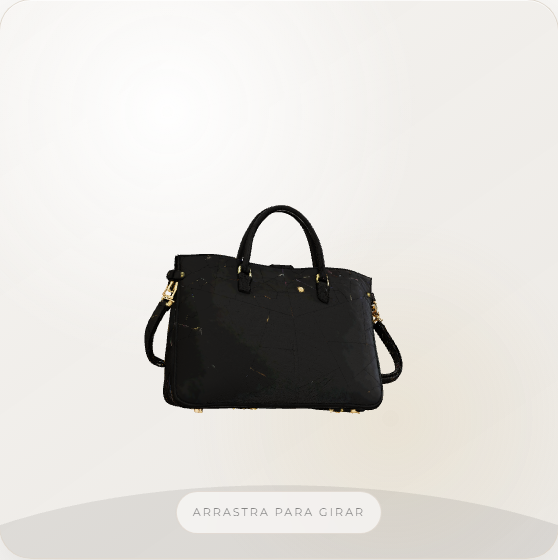
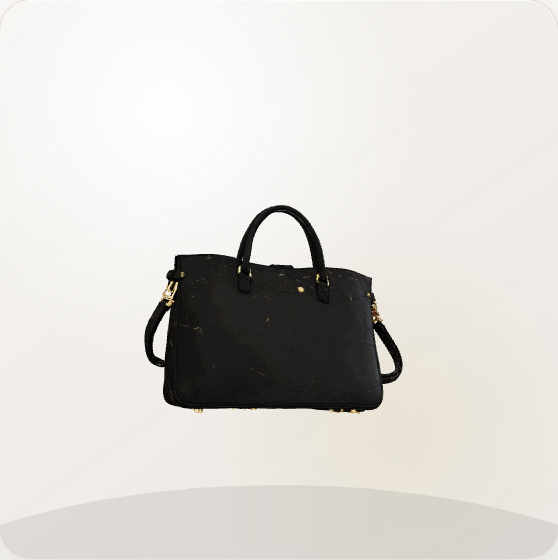
Actualiza contenido y fichas de producto

Changed region(s): [[0.3047, 0.8804, 0.7007, 0.9714]]

diff --git a/js/hero-model.js b/js/hero-model.js
@@ -1,12 +1,13 @@
 const viewer = document.getElementById('heroModelViewer');
 const stage = document.querySelector('.hero-model-stage');
 const status = document.getElementById('heroModelStatus');
-const hint = document.getElementById('heroModelHint');
 const HERO_FRAMES = Array.from(
     { length: 24 },
     (_, index) => `./images/hero-model-frames/frame-${String(index).padStart(2, '0')}.png`
 );
 const HERO_FRONT_FRAME = 12;
+const HERO_AUTO_ROTATE_SPEED = 0.65;
+const HERO_SPRITE_FRAME_DELAY_MS = 180;
 
 if (!viewer || !stage || !status) {
     throw new Error('Hero 3D viewer container not found.');
@@ -60,20 +61,13 @@ async function initHeroModel() {
 
     const controls = new OrbitControls(camera, renderer.domElement);
     controls.enableDamping = true;
+    controls.enableRotate = false;
     controls.enablePan = false;
     controls.enableZoom = false;
     controls.autoRotate = true;
-    controls.autoRotateSpeed = 1.1;
+    controls.autoRotateSpeed = HERO_AUTO_ROTATE_SPEED;
     controls.minPolarAngle = Math.PI / 2 - 0.35;
     controls.maxPolarAngle = Math.PI / 2 + 0.3;
-
-    controls.addEventListener('start', () => {
-        viewer.classList.add('is-dragging');
-    });
-
-    controls.addEventListener('end', () => {
-        viewer.classList.remove('is-dragging');
-    });
 
     const ambientLight = new THREE.HemisphereLight(0xfffbf6, 0xcbbca8, 2.6);
     scene.add(ambientLight);
@@ -115,9 +109,6 @@ async function initHeroModel() {
                 stage.classList.add('is-ready');
                 stage.classList.remove('is-error');
                 status.textContent = 'Modelo cargado';
-                if (hint) {
-                    hint.hidden = false;
-                }
                 resolve();
             },
             (event) => {
@@ -262,9 +253,6 @@ function initSpriteFallback(message = 'Visor local listo.') {
     stage.classList.add('is-sprite');
     stage.classList.remove('is-error');
     status.textContent = 'Cargando visor local...';
-    if (hint) {
-        hint.hidden = false;
-    }
 
     const sprite = document.createElement('img');
     sprite.className = 'hero-model-sprite';
@@ -273,9 +261,6 @@ function initSpriteFallback(message = 'Visor local listo.') {
     viewer.appendChild(sprite);
 
     let currentFrame = HERO_FRONT_FRAME;
-    let dragRemainder = 0;
-    let isDragging = false;
-    let lastX = 0;
     let lastAutoFrameTime = 0;
 
     const updateFrame = () => {
@@ -289,7 +274,7 @@ function initSpriteFallback(message = 'Visor local listo.') {
     };
 
     const autoRotate = (timestamp) => {
-        if (!isDragging && timestamp - lastAutoFrameTime > 110) {
+        if (timestamp - lastAutoFrameTime > HERO_SPRITE_FRAME_DELAY_MS) {
             advanceFrame(1);
             lastAutoFrameTime = timestamp;
         }
@@ -306,49 +291,7 @@ function initSpriteFallback(message = 'Visor local listo.') {
     sprite.addEventListener('error', () => {
         stage.classList.add('is-error');
         status.textContent = 'No se pudo cargar el visor local.';
-        if (hint) {
-            hint.hidden = true;
-        }
     }, { once: true });
-
-    viewer.addEventListener('pointerdown', (event) => {
-        isDragging = true;
-        lastX = event.clientX;
-        viewer.classList.add('is-dragging');
-        viewer.setPointerCapture?.(event.pointerId);
-    });
-
-    viewer.addEventListener('pointermove', (event) => {
-        if (!isDragging) {
-            return;
-        }
-
-        dragRemainder += (event.clientX - lastX) / 16;
-        lastX = event.clientX;
-
-        if (Math.abs(dragRemainder) >= 1) {
-            const step = dragRemainder > 0 ? 1 : -1;
-            dragRemainder -= step;
-            advanceFrame(step);
-        }
-    });
-
-    const stopDragging = (event) => {
-        isDragging = false;
-        dragRemainder = 0;
-        viewer.classList.remove('is-dragging');
-        if (event?.pointerId !== undefined) {
-            viewer.releasePointerCapture?.(event.pointerId);
-        }
-    };
-
-    viewer.addEventListener('pointerup', stopDragging);
-    viewer.addEventListener('pointercancel', stopDragging);
-    viewer.addEventListener('pointerleave', () => {
-        if (!isDragging) {
-            viewer.classList.remove('is-dragging');
-        }
-    });
 
     updateFrame();
 }

diff --git a/js/product.js b/js/product.js
@@ -20,7 +20,8 @@ const ProductsData = {
         ],
         dimensions: { width: '28 cm', height: '20 cm', depth: '12 cm', handle: '22 cm' },
         colors: { noir: 8500, ivory: 8500 },
-        defaultColor: 'noir'
+        defaultColor: 'noir',
+        customizable: false
     },
     'equora-petit': {
         id: 'equora-petit',
@@ -58,9 +59,9 @@ const ProductsData = {
         badge: 'Petit',
         tagline: 'Volumen redondeado en formato compacto',
         description: 'Orbea Petit trabaja una forma redondeada, sobria y funcional. Su interior comparte la misma composición visual que Orbea Grand.',
-        image: 'images/petitOrbea.png',
+        image: 'images/GrandOrbea.png',
         galleryImages: [
-            { src: 'images/petitorbeadetras.png', alt: 'Vista trasera de Orbea Petit' },
+            { src: 'images/grandorbeadetras.png', alt: 'Vista trasera de Orbea Petit' },
             { src: 'images/orbeainterior.png', alt: 'Interior Orbea' }
         ],
         dimensions: { width: '24 cm', height: '20 cm', depth: '8 cm', strap: '42 cm' },
@@ -103,9 +104,9 @@ const ProductsData = {
         badge: 'Grand',
         tagline: 'La forma Orbea con más presencia y capacidad',
         description: 'Orbea Grand lleva el volumen redondeado de la familia a una escala más generosa. Comparte interior con Orbea Petit.',
-        image: 'images/GrandOrbea.png',
+        image: 'images/petitOrbea.png',
         galleryImages: [
-            { src: 'images/grandorbeadetras.png', alt: 'Vista trasera de Orbea Grand' },
+            { src: 'images/petitorbeadetras.png', alt: 'Vista trasera de Orbea Grand' },
             { src: 'images/orbeainterior.png', alt: 'Interior Orbea' }
         ],
         dimensions: { width: '33 cm', height: '28 cm', depth: '11 cm', strap: '50 cm' },
@@ -148,6 +149,7 @@ const ProductDOM = {
     handleOptionCheckboxes: document.querySelectorAll('[data-handle-option]'),
     headphonePocket: document.getElementById('headphonePocket'),
     optionCheckboxes: document.querySelectorAll('.option-checkbox input'),
+    productOptions: document.querySelector('.product-options'),
     productTitle: document.getElementById('productTitle'),
     productTagline: document.getElementById('productTagline'),
     productPrice: document.getElementById('productPrice'),
@@ -215,6 +217,8 @@ function updateProductUI() {
 
     // Dimensiones
     updateDimensions();
+
+    updateCustomizationVisibility();
 }
 
 function updatePrice() {
@@ -550,7 +554,19 @@ function update3DColor() {
 // PERSONALIZACION
 // =============================================
 
+function isProductCustomizable() {
+    return currentProduct?.customizable !== false;
+}
+
+function updateCustomizationVisibility() {
+    if (ProductDOM.productOptions) {
+        ProductDOM.productOptions.hidden = !isProductCustomizable();
+    }
+}
+
 function initProductOptions() {
+    if (!isProductCustomizable()) return;
+
     const handleCheckboxes = Array.from(ProductDOM.handleOptionCheckboxes || []);
 
     const syncOptionLabels = () => {
@@ -580,6 +596,8 @@ function initProductOptions() {
 }
 
 function getSelectedProductOptions() {
+    if (!isProductCustomizable()) return null;
+
     const selectedHandle = Array
         .from(ProductDOM.handleOptionCheckboxes || [])
         .find(checkbox => checkbox.checked);
@@ -593,6 +611,8 @@ function getSelectedProductOptions() {
 }
 
 function getProductOptionKey(options) {
+    if (!options) return 'standard';
+
     return [
         options.handleSize === 'Asa grande' ? 'handle-large' : 'handle-small',
         options.headphonePocket ? 'headphone-pocket' : 'no-headphone-pocket'
@@ -600,6 +620,8 @@ function getProductOptionKey(options) {
 }
 
 function getProductOptionSummary(options) {
+    if (!options) return 'Edición limitada';
+
     return `${options.handleSize} · ${options.pocketLabel}`;
 }
 

diff --git a/coleccion.html b/coleccion.html
@@ -17,7 +17,7 @@
         <nav class="nav-container">
             <a href="index.html" class="logo">
                 <span class="logo-text">CAOSTRI</span>
-                <span class="logo-tagline">La forma de lo irrepetible</span>
+                <span class="logo-tagline">El valor de lo sutil</span>
             </a>
 
             <ul class="nav-menu" id="navMenu">
@@ -133,7 +133,7 @@
                         <a href="product.html?id=orbea-petit" class="product-link">
                             <div class="product-image product-image--real">
                                 <div class="product-photo-frame">
-                                    <img class="product-real-image" src="images/petitOrbea.png" alt="Bolso Orbea Petit" loading="lazy">
+                                    <img class="product-real-image" src="images/GrandOrbea.png" alt="Bolso Orbea Petit" loading="lazy">
                                 </div>
                                 <div class="product-overlay">
                                     <span class="view-product-btn">Ver Producto</span>
@@ -202,7 +202,7 @@
                         <a href="product.html?id=orbea-grand" class="product-link">
                             <div class="product-image product-image--real">
                                 <div class="product-photo-frame">
-                                    <img class="product-real-image" src="images/GrandOrbea.png" alt="Bolso Orbea Grand" loading="lazy">
+                                    <img class="product-real-image" src="images/petitOrbea.png" alt="Bolso Orbea Grand" loading="lazy">
                                 </div>
                                 <div class="product-overlay">
                                     <span class="view-product-btn">Ver Producto</span>

diff --git a/css/styles.css b/css/styles.css
@@ -602,12 +602,6 @@ ul, ol {
     width: 100%;
     height: 100%;
     min-height: inherit;
-    cursor: grab;
-    touch-action: none;
-}
-
-.hero-model-viewer.is-dragging {
-    cursor: grabbing;
 }
 
 .hero-model-viewer canvas {
@@ -627,8 +621,7 @@ ul, ol {
     pointer-events: none;
 }
 
-.hero-model-overlay,
-.hero-model-hint {
+.hero-model-overlay {
     position: absolute;
     left: 50%;
     transform: translateX(-50%);
@@ -658,20 +651,6 @@ ul, ol {
 .hero-model-stage.is-error .hero-model-overlay {
     opacity: 1;
     color: #7b3f3f;
-}
-
-.hero-model-hint {
-    bottom: 1.5rem;
-    font-size: 0.7rem;
-    letter-spacing: 0.18em;
-    text-transform: uppercase;
-    color: var(--color-gray);
-    background: rgba(250, 249, 247, 0.78);
-    border: 1px solid rgba(212, 201, 188, 0.55);
-}
-
-.hero-model-stage.is-sprite .hero-model-hint {
-    display: none;
 }
 
 .floating-badge {
@@ -829,10 +808,6 @@ ul, ol {
     justify-content: center;
     padding-top: var(--space-md);
     border-top: 1px solid rgba(168, 139, 74, 0.28);
-}
-
-.piece-page .hero-model-hint {
-    display: none;
 }
 
 .feature-number--edition {
@@ -2606,7 +2581,7 @@ ul, ol {
    FOOTER
    ============================================= */
 .main-footer {
-    background: var(--color-black);
+    background: #000000;
     color: var(--color-white);
     padding: var(--space-xxl) var(--space-lg) var(--space-lg);
 }
@@ -3055,8 +3030,7 @@ ul, ol {
         letter-spacing: 0.14em;
     }
 
-    .hero-model-overlay,
-    .hero-model-hint {
+    .hero-model-overlay {
         padding: 0.6rem 0.85rem;
         font-size: 0.62rem;
         letter-spacing: 0.12em;

diff --git a/index.html b/index.html
@@ -3,7 +3,7 @@
 <head>
     <meta charset="UTF-8">
     <meta name="viewport" content="width=device-width, initial-scale=1.0">
-    <title>CAOSTRI | La forma de lo irrepetible</title>
+    <title>CAOSTRI | El valor de lo sutil</title>
 
     <!-- Google Fonts -->
     <link rel="preconnect" href="https://fonts.googleapis.com">
@@ -28,7 +28,7 @@
         <nav class="nav-container">
             <a href="index.html" class="logo">
                 <span class="logo-text">CAOSTRI</span>
-                <span class="logo-tagline">La forma de lo irrepetible</span>
+                <span class="logo-tagline">El valor de lo sutil</span>
             </a>
 
             <ul class="nav-menu" id="navMenu">
@@ -71,7 +71,6 @@
                 <div class="image-frame hero-model-stage">
                     <div id="heroModelViewer" class="hero-model-viewer" aria-label="Visor 3D del bolso"></div>
                     <div class="hero-model-overlay" id="heroModelStatus">Cargando bolso 3D...</div>
-                    <div class="hero-model-hint" id="heroModelHint">Arrastra para girar</div>
                 </div>
             </div>
         </div>

diff --git a/pieza-jardin.html b/pieza-jardin.html
@@ -26,7 +26,7 @@
         <nav class="nav-container">
             <a href="index.html" class="logo">
                 <span class="logo-text">CAOSTRI</span>
-                <span class="logo-tagline">La forma de lo irrepetible</span>
+                <span class="logo-tagline">El valor de lo sutil</span>
             </a>
 
             <ul class="nav-menu" id="navMenu">
@@ -66,7 +66,6 @@
                 <div class="piece-model-stage hero-model-stage">
                     <div id="heroModelViewer" class="hero-model-viewer" aria-label="Bolso Un jardín de rosas girando"></div>
                     <div class="hero-model-overlay" id="heroModelStatus">Cargando bolso 3D...</div>
-                    <div class="hero-model-hint" id="heroModelHint">Arrastra para girar</div>
                 </div>
 
                 <div class="hero-features piece-features" aria-label="Datos de la edición limitada">

diff --git a/historia.html b/historia.html
@@ -17,7 +17,7 @@
         <nav class="nav-container">
             <a href="index.html" class="logo">
                 <span class="logo-text">CAOSTRI</span>
-                <span class="logo-tagline">La forma de lo irrepetible</span>
+                <span class="logo-tagline">El valor de lo sutil</span>
             </a>
 
             <ul class="nav-menu" id="navMenu">

diff --git a/product.html b/product.html
@@ -22,7 +22,7 @@
         <nav class="nav-container">
             <a href="index.html" class="logo">
                 <span class="logo-text">CAOSTRI</span>
-                <span class="logo-tagline">La forma de lo irrepetible</span>
+                <span class="logo-tagline">El valor de lo sutil</span>
             </a>
 
             <ul class="nav-menu" id="navMenu">

diff --git a/cart.html b/cart.html
@@ -184,7 +184,7 @@
         <div class="footer-container">
             <div class="footer-brand">
                 <span class="footer-logo">CAOSTRI</span>
-                <p>La forma de lo irrepetible/p>
+                <p>El valor de lo sutil</p>
             </div>
             <div class="footer-links">
                 <div class="footer-column">
